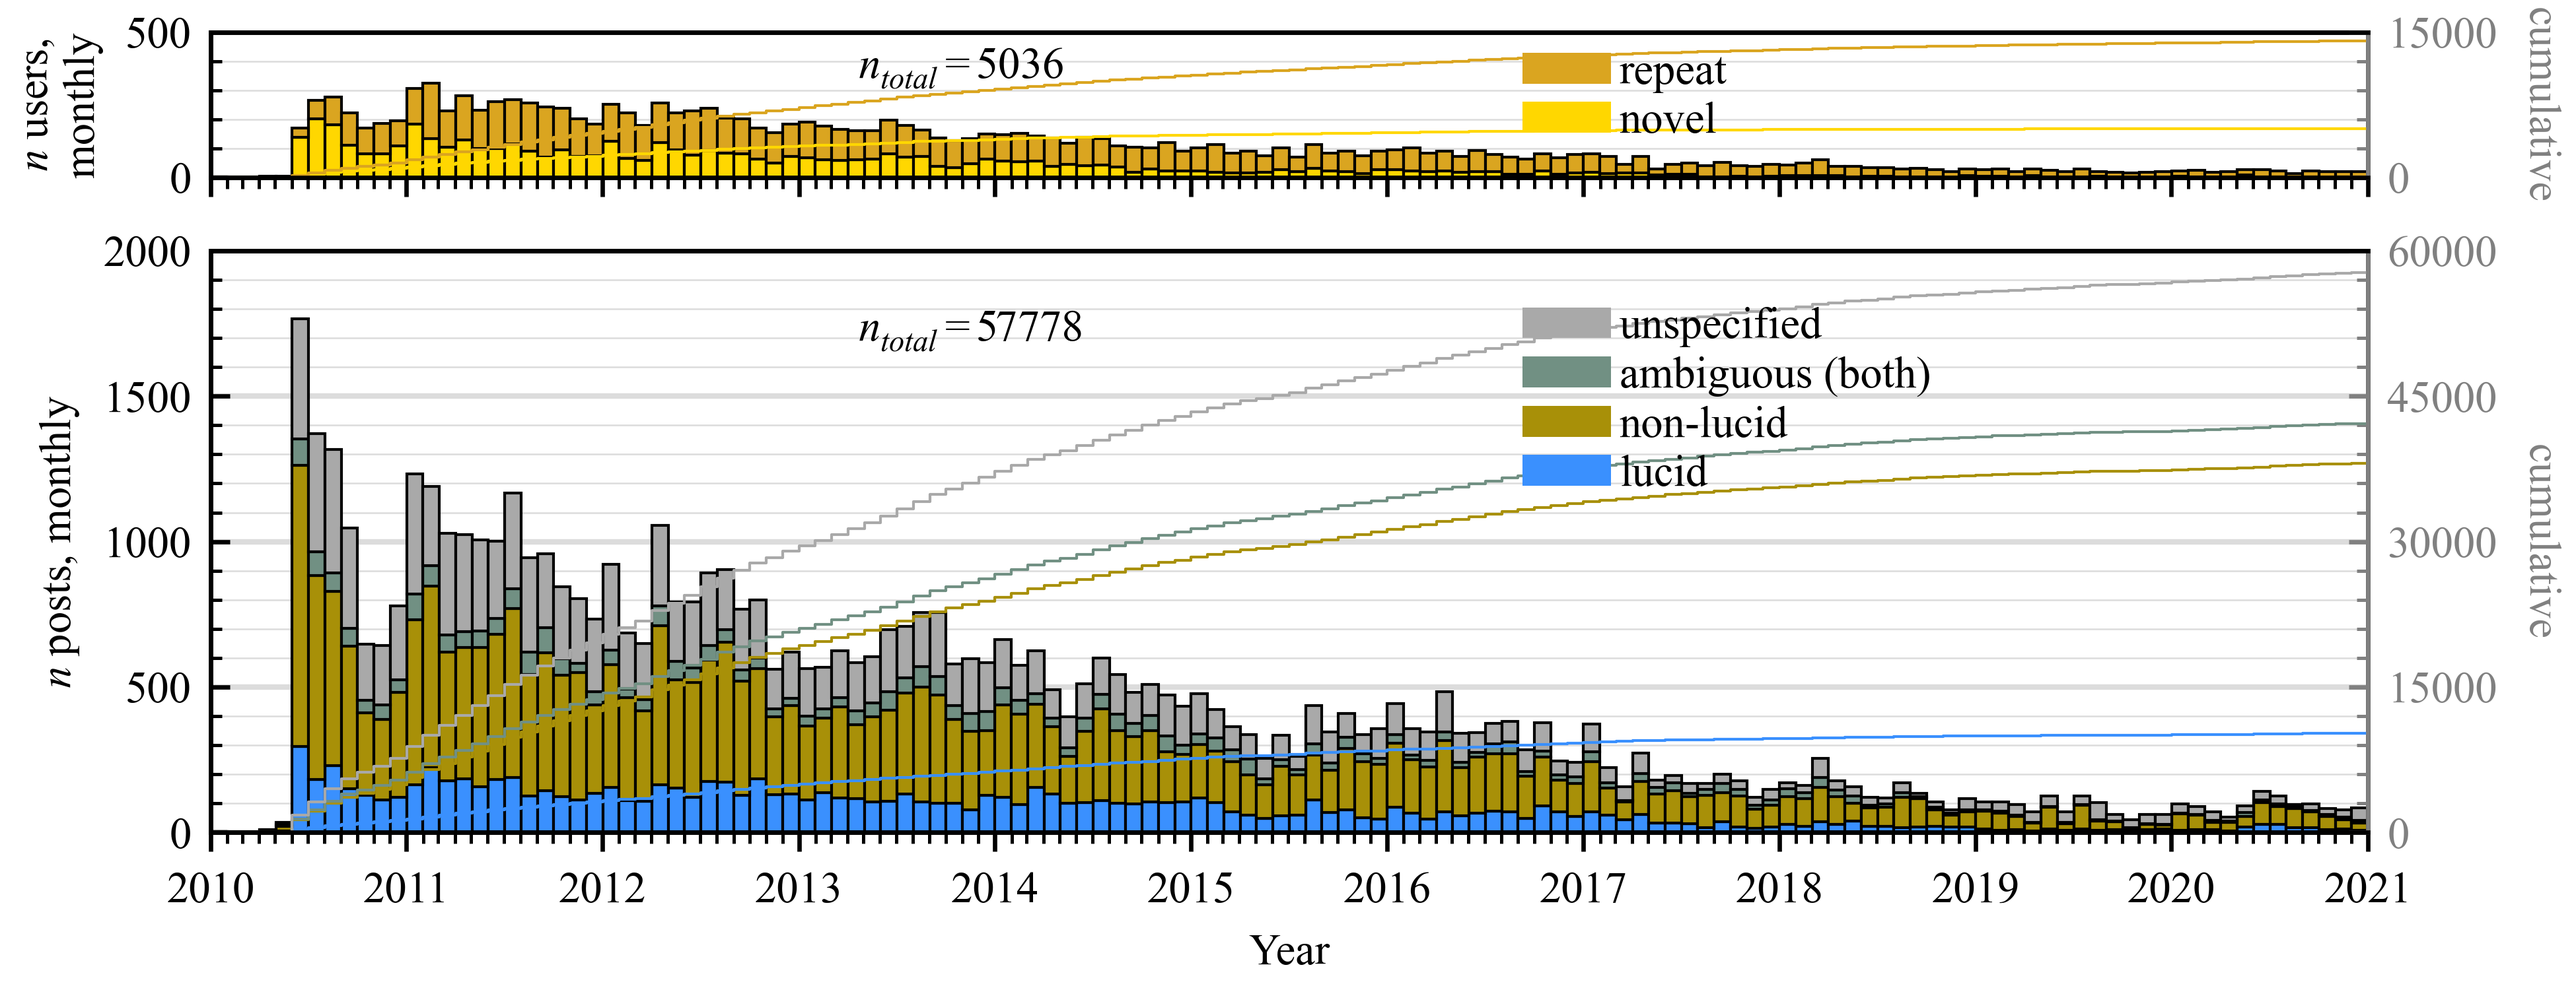
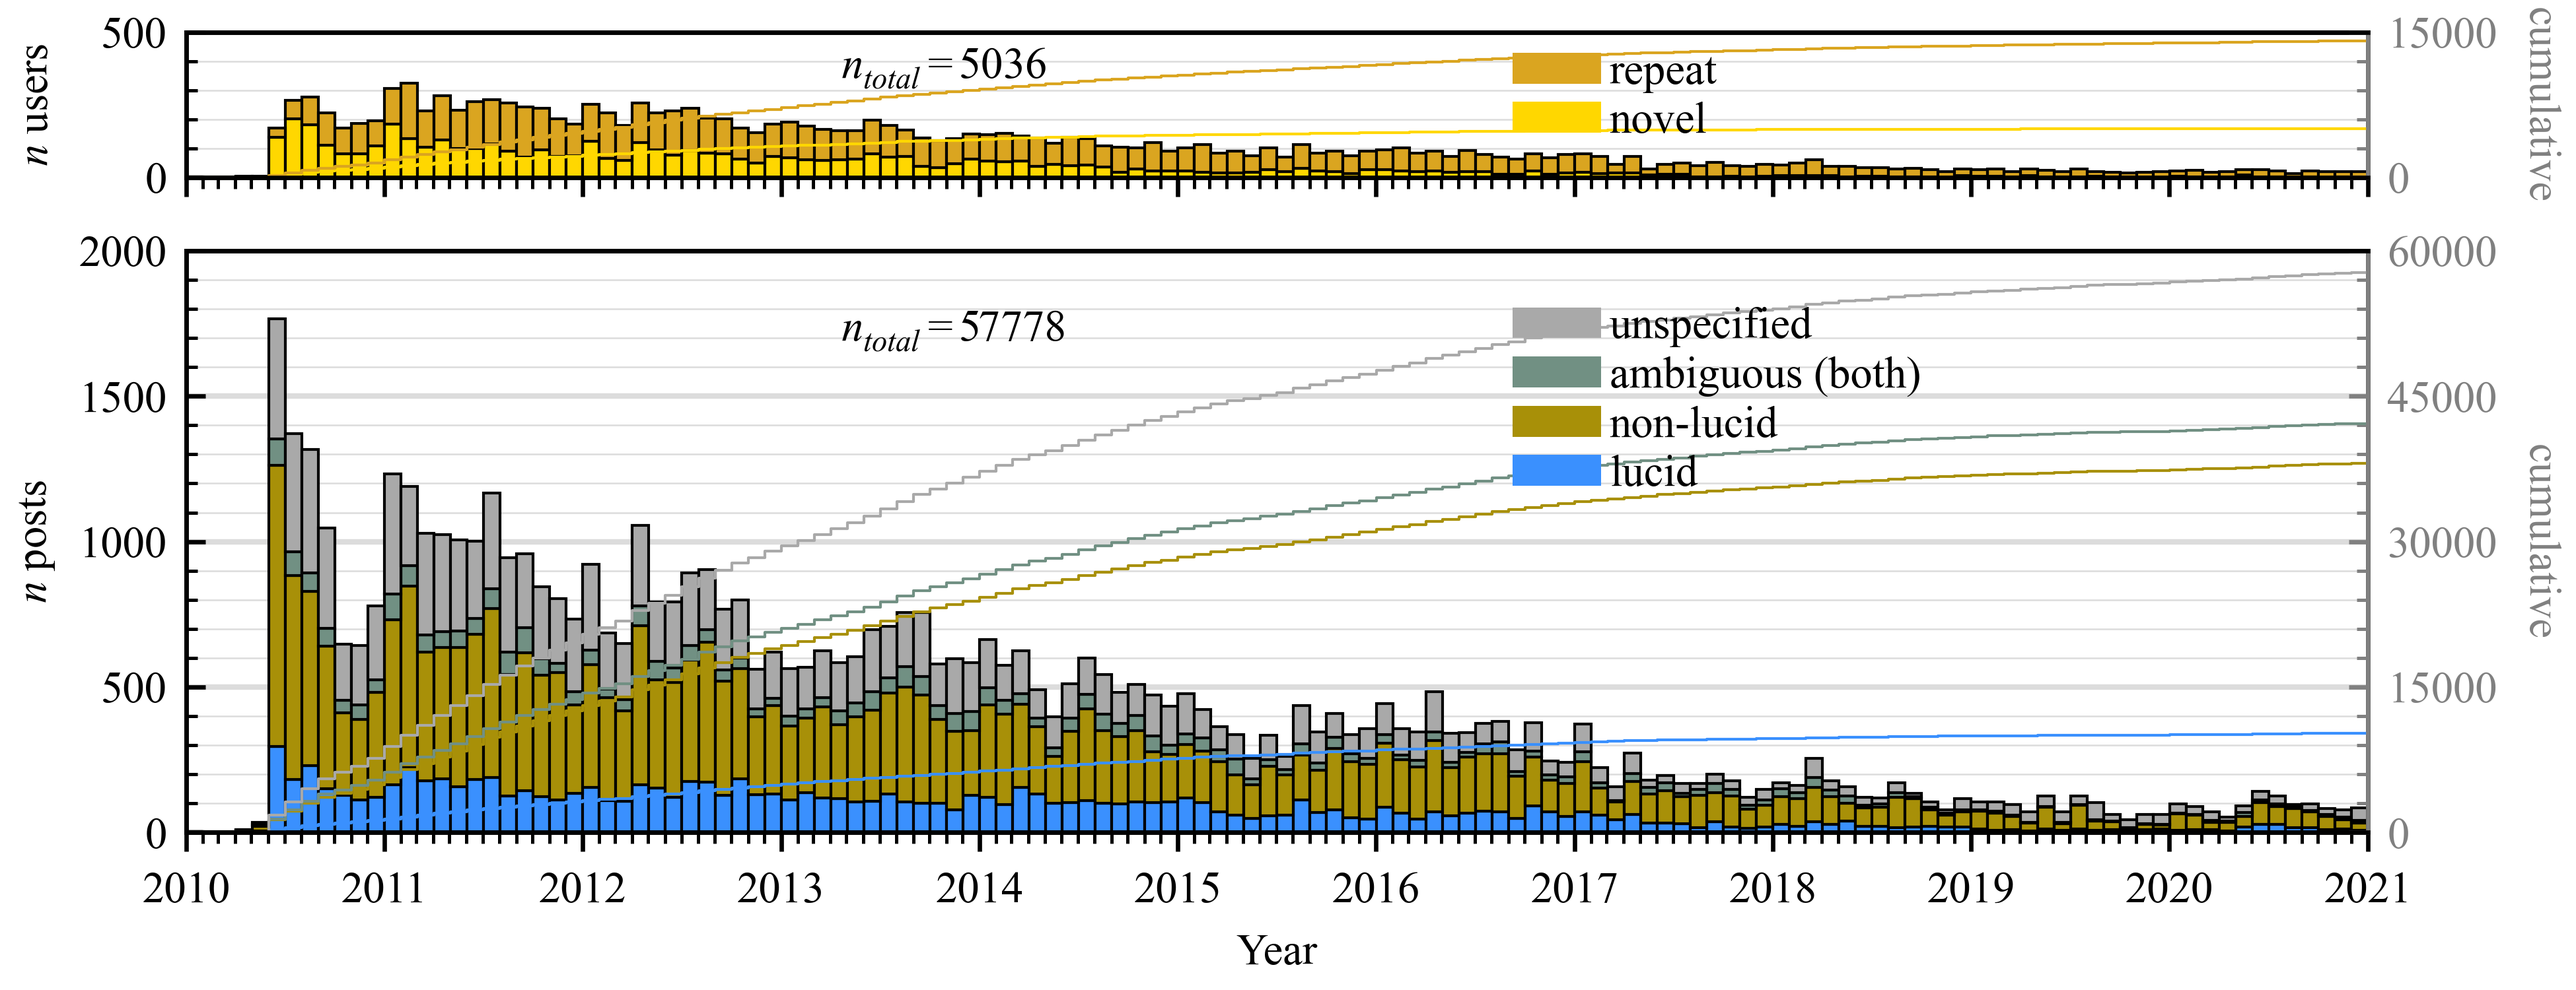
Align yaxis labels

diff --git a/scripts/describe-totalcounts.py b/scripts/describe-totalcounts.py
@@ -225,12 +225,12 @@ if not WHITE:
 
 # Unique to bottom axis
 ax1a.set_xlabel("Year")
-ax1a.set_ylabel(r"$n$ posts, monthly")
+ax1a.set_ylabel(r"$n$ posts")
 ax1a.set_ybound(upper=POST_YMAX_MONTHLY)
 ax1b.set_ybound(upper=post_ymax_cumulative)
 
 # Unique to top axis
-ax2a.set_ylabel(r"$n$" + " users,\nmonthly")
+ax2a.set_ylabel(r"$n$ users")
 ax2a.set_ybound(upper=USER_YMAX_MONTHLY)
 ax2b.set_ybound(upper=user_ymax_cumulative)
 ax2a.xaxis.set(
@@ -270,6 +270,10 @@ ax2b.yaxis.set(
     major_locator=plt.MultipleLocator(major_tick_loc_right),
     minor_locator=plt.MultipleLocator(minor_tick_loc_right),
 )
+
+# Align ylabels to same vertical position across both axes
+fig.align_ylabels([ax1a, ax2a])
+fig.align_ylabels([ax1b, ax2b])
 
 # Draw total counts
 n_total_posts = df.shape[0]
